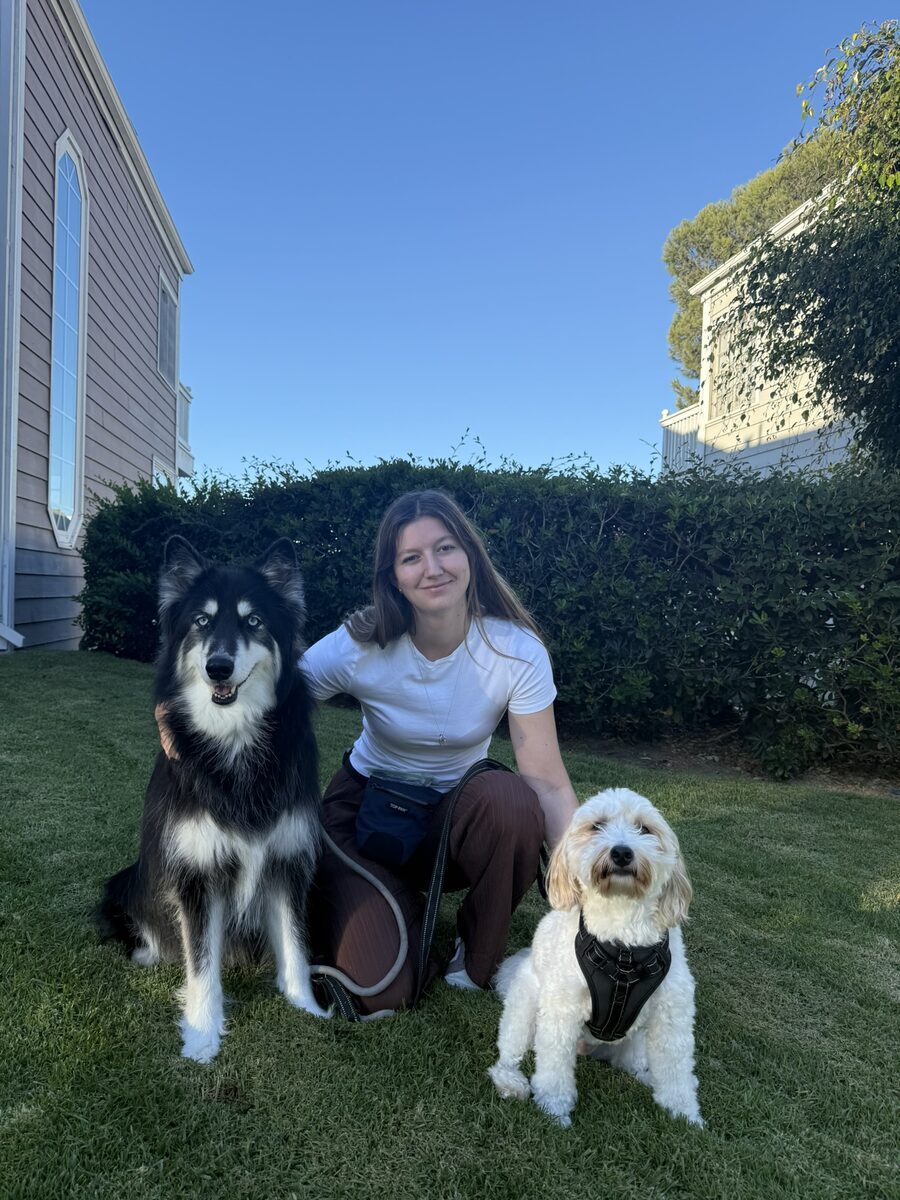
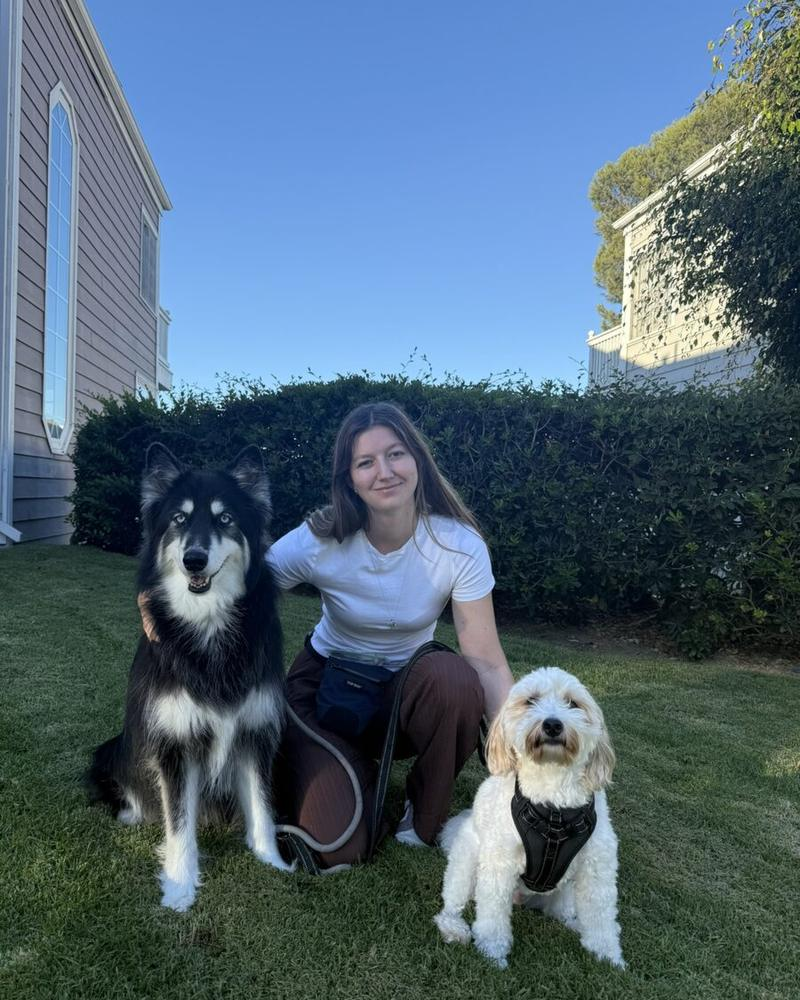
Add technical SEO: sitemap, robots.txt, canonical, structured data
New: robots.txt, sitemap.xml, og-image.jpg (1200x630 link preview card).

index.html: canonical URL, robots meta with max-image-preview:large, LocalBusiness JSON-LD (9 service-area cities, 6 services, CATCH credential), fixed Open Graph (absolute og:image, og:url, og:site_name, og:locale) and Twitter card, tel: links given +1 country code, width/height on all images, fetchpriority on hero, apple-touch-icon, theme-color, aria-hidden on decorative emoji.

style.css: height:auto on base img rule so the CSS aspect-ratio still wins over the new intrinsic width/height attributes.

vercel.json: immutable caching for images, nosniff and referrer-policy headers.

Images resized to actual display dimensions: 1630 KB -> 693 KB.

Claude-Session: https://claude.ai/code/session_01XDZHTiWKzQpG7UWispmZHN

diff --git a/index.html b/index.html
@@ -5,20 +5,94 @@
 <meta name="viewport" content="width=device-width, initial-scale=1.0">
 <title>Haley's PAWsitive Dog Training | Orange County, CA</title>
 <meta name="description" content="Positive, reward-based dog training in Dana Point, San Juan Capistrano, Laguna Niguel, San Clemente and surrounding South Orange County cities. Obedience, manners, and handler coaching.">
+<link rel="canonical" href="https://dogsite-theta.vercel.app/">
+<meta name="robots" content="index, follow, max-image-preview:large, max-snippet:-1, max-video-preview:-1">
+<meta name="theme-color" content="#5c0f1f">
 
-<link rel="icon" type="image/png" href="logo.png">
+<link rel="icon" type="image/png" href="/logo.png">
+<link rel="apple-touch-icon" href="/logo.png">
 
 <!-- Open Graph -->
-<meta property="og:title" content="Haley's PAWsitive Dog Training">
+<meta property="og:site_name" content="Haley's PAWsitive Dog Training">
+<meta property="og:title" content="Haley's PAWsitive Dog Training | Orange County, CA">
 <meta property="og:description" content="Better Dogs. Brighter Days. Positive, reward-based dog training serving South Orange County, CA.">
-<meta property="og:image" content="logo.png">
+<meta property="og:image" content="https://dogsite-theta.vercel.app/og-image.jpg">
+<meta property="og:image:width" content="1200">
+<meta property="og:image:height" content="630">
+<meta property="og:image:alt" content="Haley's PAWsitive Dog Training — Better Dogs. Brighter Days.">
+<meta property="og:url" content="https://dogsite-theta.vercel.app/">
 <meta property="og:type" content="website">
+<meta property="og:locale" content="en_US">
+
+<!-- Twitter / X -->
+<meta name="twitter:card" content="summary_large_image">
+<meta name="twitter:title" content="Haley's PAWsitive Dog Training | Orange County, CA">
+<meta name="twitter:description" content="Better Dogs. Brighter Days. Positive, reward-based dog training serving South Orange County, CA.">
+<meta name="twitter:image" content="https://dogsite-theta.vercel.app/og-image.jpg">
 
 <link rel="preconnect" href="https://fonts.googleapis.com">
 <link rel="preconnect" href="https://fonts.gstatic.com" crossorigin>
 <link href="https://fonts.googleapis.com/css2?family=Playfair+Display:wght@600;700&family=Nunito+Sans:wght@400;600;700;800&display=swap" rel="stylesheet">
 
 <link rel="stylesheet" href="style.css">
+
+<script type="application/ld+json">
+{
+  "@context": "https://schema.org",
+  "@type": "LocalBusiness",
+  "@id": "https://dogsite-theta.vercel.app/#business",
+  "name": "Haley's PAWsitive Dog Training",
+  "alternateName": "Haleys PAWsitive Dog Training",
+  "slogan": "Better Dogs. Brighter Days.",
+  "description": "Positive, reward-based dog training and handler coaching for families across South Orange County, California.",
+  "url": "https://dogsite-theta.vercel.app/",
+  "image": "https://dogsite-theta.vercel.app/og-image.jpg",
+  "logo": "https://dogsite-theta.vercel.app/logo.png",
+  "telephone": "+1-949-306-0357",
+  "email": "haleyspawsitivedogtraining@gmail.com",
+  "address": {
+    "@type": "PostalAddress",
+    "addressLocality": "Dana Point",
+    "addressRegion": "CA",
+    "addressCountry": "US"
+  },
+  "areaServed": [
+    {"@type": "City", "name": "Dana Point"},
+    {"@type": "City", "name": "San Juan Capistrano"},
+    {"@type": "City", "name": "Laguna Niguel"},
+    {"@type": "City", "name": "San Clemente"},
+    {"@type": "City", "name": "Laguna Beach"},
+    {"@type": "City", "name": "Aliso Viejo"},
+    {"@type": "City", "name": "Laguna Hills"},
+    {"@type": "City", "name": "Mission Viejo"},
+    {"@type": "City", "name": "Laguna Woods"}
+  ],
+  "knowsAbout": ["Dog training", "Puppy training", "Canine behavior modification", "Positive reinforcement training"],
+  "hasOfferCatalog": {
+    "@type": "OfferCatalog",
+    "name": "Training Services",
+    "itemListElement": [
+      {"@type": "Offer", "itemOffered": {"@type": "Service", "name": "Obedience &amp; Manners Training"}},
+      {"@type": "Offer", "itemOffered": {"@type": "Service", "name": "Handler Coaching"}},
+      {"@type": "Offer", "itemOffered": {"@type": "Service", "name": "Puppy Foundations"}},
+      {"@type": "Offer", "itemOffered": {"@type": "Service", "name": "Behavior Modification"}},
+      {"@type": "Offer", "itemOffered": {"@type": "Service", "name": "In-Home Private Sessions"}},
+      {"@type": "Offer", "itemOffered": {"@type": "Service", "name": "Custom Training Plans"}}
+    ]
+  },
+  "founder": {
+    "@type": "Person",
+    "name": "Haley",
+    "jobTitle": "Certified Dog Trainer",
+    "hasCredential": {
+      "@type": "EducationalOccupationalCredential",
+      "credentialCategory": "Professional Certification",
+      "name": "CATCH Certified Dog Trainer",
+      "recognizedBy": {"@type": "Organization", "name": "CATCH Canine Trainers Academy"}
+    }
+  }
+}
+</script>
 </head>
 <body>
 
@@ -26,7 +100,7 @@
 <header class="site-header" id="top">
 <div class="container header-inner">
 <a href="#top" class="brand">
-<img src="logo.png" alt="Haley's PAWsitive Dog Training logo" class="brand-logo">
+<img width="256" height="256" src="logo.png" alt="Haley's PAWsitive Dog Training logo" class="brand-logo">
 <span class="brand-text">
 <span class="brand-name">Haley's PAWsitive</span>
 <span class="brand-sub">Dog Training</span>
@@ -40,7 +114,7 @@
 <a href="#contact">Contact</a>
 </nav>
 
-<a href="tel:19493060357" class="btn btn-primary header-cta">
+<a href="tel:+19493060357" class="btn btn-primary header-cta">
 <svg viewBox="0 0 24 24" width="16" height="16" fill="currentColor" aria-hidden="true"><path d="M6.62 10.79a15.05 15.05 0 0 0 6.59 6.59l2.2-2.2a1 1 0 0 1 1.01-.24c1.12.37 2.33.57 3.58.57a1 1 0 0 1 1 1V20a1 1 0 0 1-1 1C10.61 21 3 13.39 3 4a1 1 0 0 1 1-1h3.5a1 1 0 0 1 1 1c0 1.25.2 2.46.57 3.58a1 1 0 0 1-.25 1.01l-2.2 2.2z"/></svg>
 Call Now
 </a>
@@ -59,7 +133,7 @@ Call Now
 <h1>Better Dogs.<br>Brighter Days.</h1>
 <p class="hero-lede">Positive, reward-based dog training and handler coaching for families across Dana Point, San Juan Capistrano, Laguna Niguel, and beyond. Let's build a dog you love living with.</p>
 <div class="hero-actions">
-<a href="tel:19493060357" class="btn btn-primary btn-lg">Call (949) 306-0357</a>
+<a href="tel:+19493060357" class="btn btn-primary btn-lg">Call (949) 306-0357</a>
 <a href="#contact" class="btn btn-outline btn-lg">Get In Touch</a>
 </div>
 <ul class="hero-trust">
@@ -69,7 +143,7 @@ Call Now
 </ul>
 </div>
 <div class="hero-media">
-<img src="hero.jpg" alt="Haley kneeling in a backyard with a husky-mix and a cockapoo she trained" loading="eager">
+<img width="800" height="1000" src="hero.jpg" fetchpriority="high" decoding="async" alt="Haley kneeling in a backyard with a husky-mix and a cockapoo she trained" loading="eager">
 </div>
 </div>
 </section>
@@ -104,32 +178,32 @@ Call Now
 
 <div class="card-grid">
 <div class="service-card">
-<div class="service-icon">🐾</div>
+<div class="service-icon" aria-hidden="true">🐾</div>
 <h3>Obedience &amp; Manners Training</h3>
 <p>The core cues that make daily life easier: sit, stay, come, place, loose-leash walking, and polite greetings.</p>
 </div>
 <div class="service-card">
-<div class="service-icon">🧑🤝🧑</div>
+<div class="service-icon" aria-hidden="true">🧑🤝🧑</div>
 <h3>Handler Coaching</h3>
 <p>Training the dog is half the job — I'll coach you on timing, body language, and consistency so it sticks after I leave.</p>
 </div>
 <div class="service-card">
-<div class="service-icon">🐕</div>
+<div class="service-icon" aria-hidden="true">🐕</div>
 <h3>Puppy Foundations</h3>
 <p>Socialization, crate and potty training, bite inhibition, and building good habits from day one.</p>
 </div>
 <div class="service-card">
-<div class="service-icon">🎯</div>
+<div class="service-icon" aria-hidden="true">🎯</div>
 <h3>Behavior Modification</h3>
 <p>Support for reactivity, jumping, pulling, resource guarding, and other everyday behavior challenges.</p>
 </div>
 <div class="service-card">
-<div class="service-icon">🏠</div>
+<div class="service-icon" aria-hidden="true">🏠</div>
 <h3>In-Home Private Sessions</h3>
 <p>One-on-one training in the environment your dog actually lives in, for faster and more lasting results.</p>
 </div>
 <div class="service-card">
-<div class="service-icon">📋</div>
+<div class="service-icon" aria-hidden="true">📋</div>
 <h3>Custom Training Plans</h3>
 <p>Not sure where to start? I'll build a step-by-step plan around your dog's needs and your schedule.</p>
 </div>
@@ -141,7 +215,7 @@ Call Now
 <section class="about" id="about">
 <div class="container about-inner">
 <div class="about-media">
-<img src="training-session.jpg" alt="Haley working with two dogs during an outdoor training session" loading="lazy">
+<img width="800" height="1000" src="training-session.jpg" alt="Haley working with two dogs during an outdoor training session" loading="lazy">
 </div>
 <div class="about-copy">
 <p class="eyebrow">About Haley</p>
@@ -151,10 +225,10 @@ Call Now
 <p>One of my biggest goals for the future is to open my own dog rescue, creating a safe place for dogs in need and helping them find loving forever homes.</p>
 <p>Whether you're looking to improve your dog's behavior, strengthen your bond, or simply help your dog become the best version of themselves, I'm here to help every step of the way.</p>
 <div class="about-gallery">
-<img src="doodles.jpg" alt="Haley nose-to-nose with two goldendoodles she trained" loading="lazy" style="object-position: 50% 20%;">
-<img src="greeting-training.jpg" alt="Haley getting a kiss from a spotted puppy during an outdoor training session" loading="lazy" style="object-position: 50% 28%;">
-<img src="dog-kisses.jpg" alt="A golden retriever puppy licking Haley's cheek as she laughs" loading="lazy" style="object-position: 50% 42%;">
-<img src="st-patricks-hug.jpg" alt="Haley kneeling with a client dog for a St. Patrick's Day photo" loading="lazy" style="object-position: 50% 45%;">
+<img width="560" height="600" src="doodles.jpg" alt="Haley nose-to-nose with two goldendoodles she trained" loading="lazy" style="object-position: 50% 20%;">
+<img width="560" height="600" src="greeting-training.jpg" alt="Haley getting a kiss from a spotted puppy during an outdoor training session" loading="lazy" style="object-position: 50% 28%;">
+<img width="560" height="600" src="dog-kisses.jpg" alt="A golden retriever puppy licking Haley's cheek as she laughs" loading="lazy" style="object-position: 50% 42%;">
+<img width="560" height="600" src="st-patricks-hug.jpg" alt="Haley kneeling with a client dog for a St. Patrick's Day photo" loading="lazy" style="object-position: 50% 45%;">
 </div>
 </div>
 </div>
@@ -178,7 +252,7 @@ Call Now
 <li>Mission Viejo</li>
 <li>Laguna Woods</li>
 </ul>
-<p class="area-note">Not sure if you're in range? <a href="tel:19493060357">Give me a call</a> — happy to check.</p>
+<p class="area-note">Not sure if you're in range? <a href="tel:+19493060357">Give me a call</a> — happy to check.</p>
 </div>
 </section>
 
@@ -192,7 +266,7 @@ Call Now
 </div>
 
 <div class="contact-cards">
-<a href="tel:19493060357" class="contact-card">
+<a href="tel:+19493060357" class="contact-card">
 <div class="contact-icon">
 <svg viewBox="0 0 24 24" width="22" height="22" fill="currentColor" aria-hidden="true"><path d="M6.62 10.79a15.05 15.05 0 0 0 6.59 6.59l2.2-2.2a1 1 0 0 1 1.01-.24c1.12.37 2.33.57 3.58.57a1 1 0 0 1 1 1V20a1 1 0 0 1-1 1C10.61 21 3 13.39 3 4a1 1 0 0 1 1-1h3.5a1 1 0 0 1 1 1c0 1.25.2 2.46.57 3.58a1 1 0 0 1-.25 1.01l-2.2 2.2z"/></svg>
 </div>
@@ -219,7 +293,7 @@ Call Now
 <footer class="site-footer">
 <div class="container footer-inner">
 <a href="#top" class="brand brand-footer">
-<img src="logo.png" alt="Haley's PAWsitive Dog Training logo" class="brand-logo">
+<img width="256" height="256" src="logo.png" alt="Haley's PAWsitive Dog Training logo" class="brand-logo">
 <span class="brand-text">
 <span class="brand-name">Haley's PAWsitive</span>
 <span class="brand-sub">Dog Training</span>

diff --git a/style.css b/style.css
@@ -34,7 +34,9 @@ body {
   -webkit-font-smoothing: antialiased;
 }
 
-img { max-width: 100%; display: block; }
+/* height:auto lets the CSS aspect-ratio win over the intrinsic width/height
+   attributes in the HTML (those are there to reserve space and stop layout shift) */
+img { max-width: 100%; height: auto; display: block; }
 
 a { color: inherit; text-decoration: none; }
 
